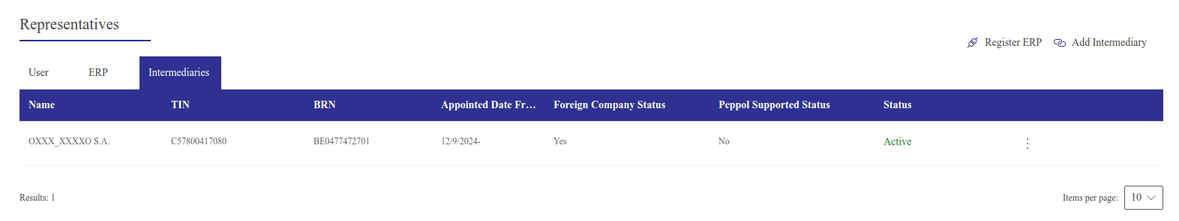
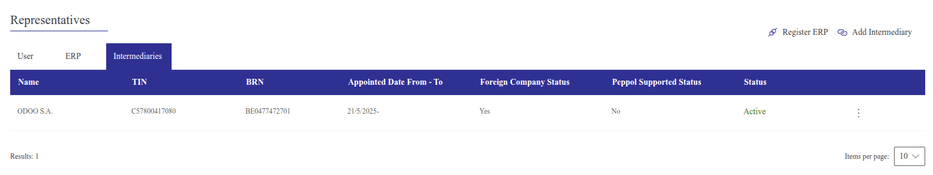
[FIX] l10n_my - Update intermediary credentials for Odoo on preproduction
MyInvois changed our name from OXXX_XXXXOIS.A. to OXXX_XXXXA. . Updating the documentation to allow clients to add Odoo as an intermediary on preproduction environment.

task-4807649

X-original-commit: 9921e96df12a78b8e95d6247e114841656bba833

diff --git a/content/applications/finance/fiscal_localizations/malaysia.rst b/content/applications/finance/fiscal_localizations/malaysia.rst
@@ -107,7 +107,7 @@ portal to grant Odoo the **right to invoice** as an intermediary for your compan
    - :guilabel:`Name`:
 
      - :guilabel:`Production`: `ODOO S.A.`
-     - :guilabel:`Pre-production`: `OXXX_XXXXO S.A.`
+     - :guilabel:`Pre-production`: `OXXX_XXXXA.`
 
 #. Grant the following permissions by clicking the :icon:`fa-toggle-on` :guilabel:`(toggle-on)`
    icon:
